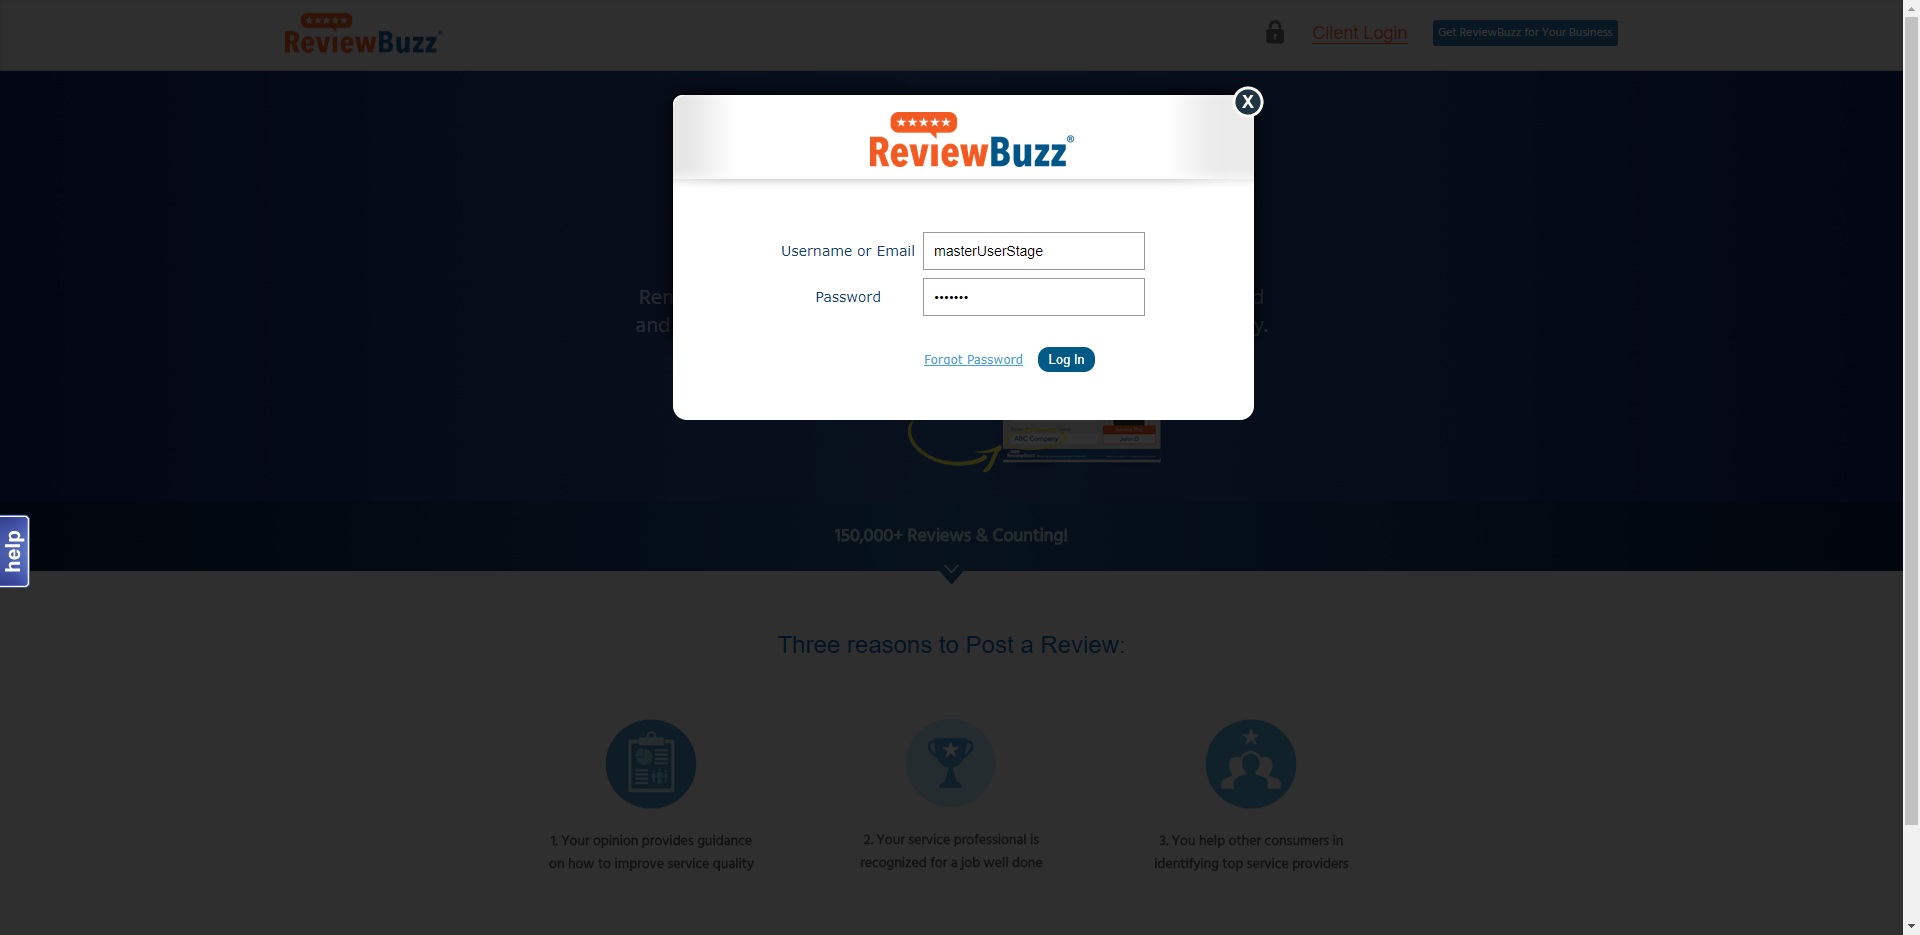
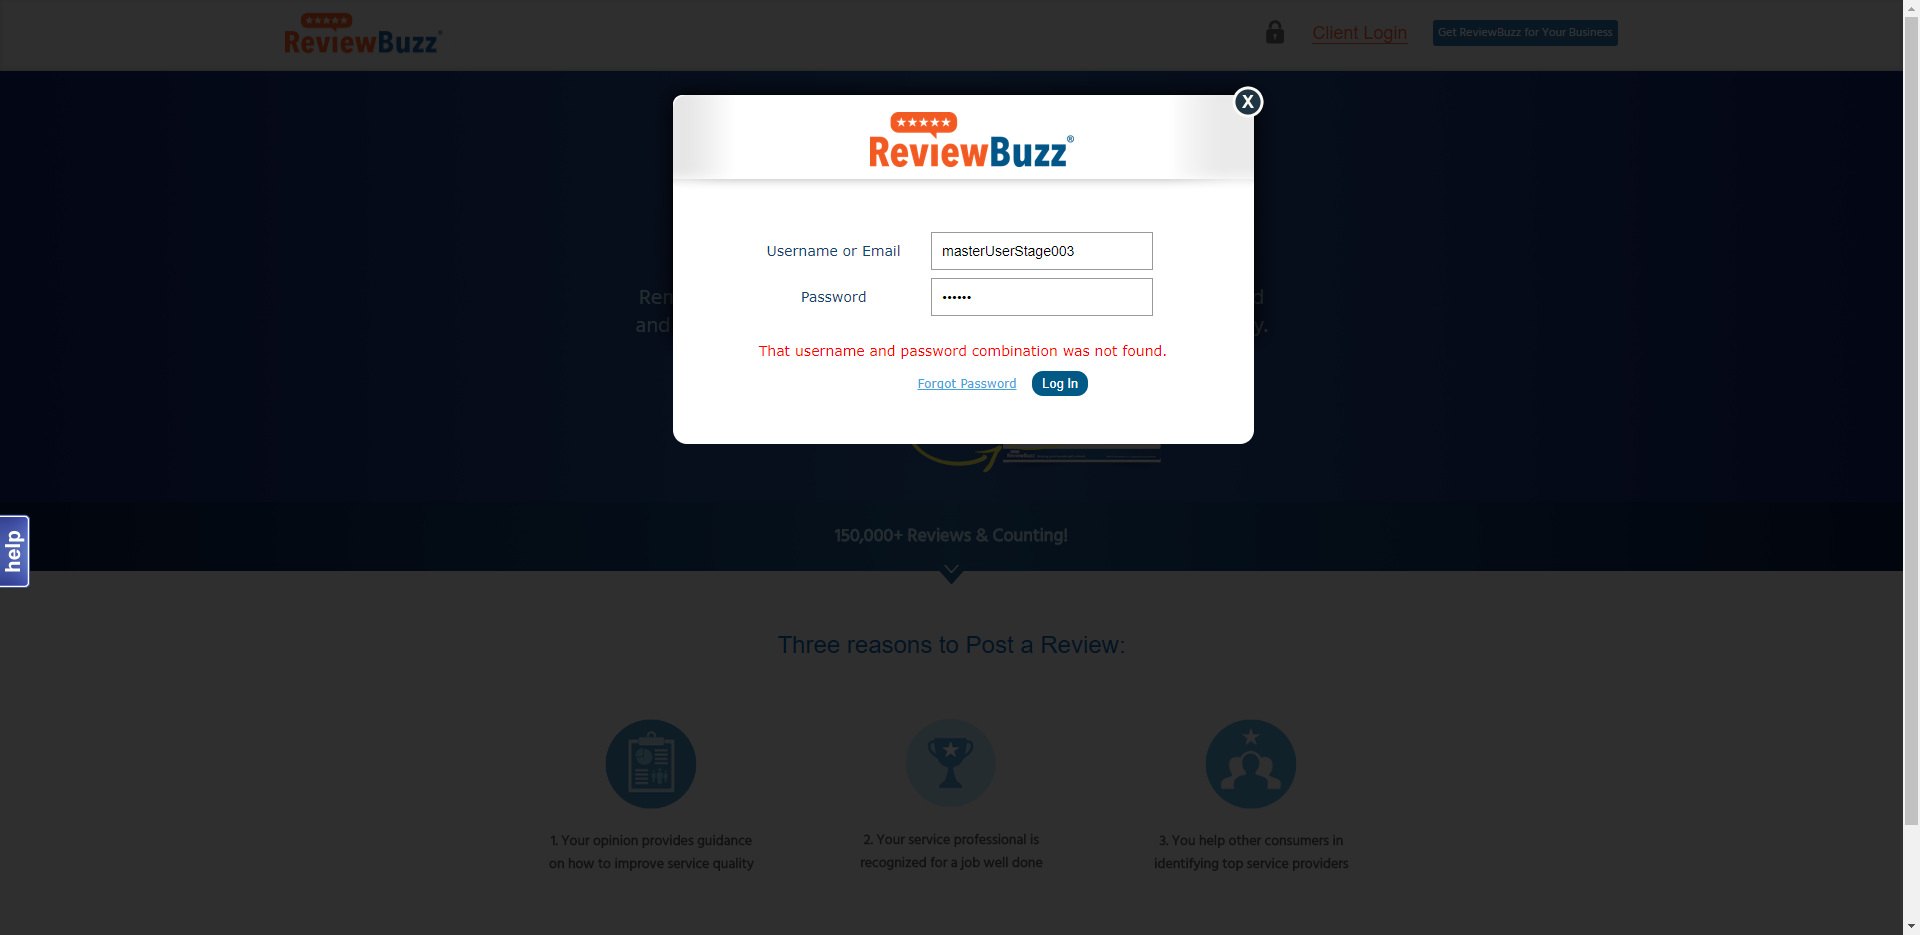
-

Changed region(s): [[0.3438, 0.3722, 0.6562, 0.4963], [0.4062, 0.2481, 0.5625, 0.2791], [0.4062, 0.3102, 0.4688, 0.3412]]

diff --git a/report/Smoke_Test_Report.html b/report/Smoke_Test_Report.html
@@ -1,0 +1,309 @@
+<!DOCTYPE html>
+<html lang="en">
+<head>
+    <meta charset="utf-8">
+    <meta http-equiv="X-UA-Compatible" content="IE=edge">
+    <meta name="viewport" content="width=device-width, initial-scale=1">
+    <title>Behat Tests</title>
+
+    <!-- Bootstrap -->
+    <!-- Latest compiled and minified CSS -->
+    <link rel="stylesheet" href="https://maxcdn.bootstrapcdn.com/bootstrap/3.3.1/css/bootstrap.min.css">
+
+    <!-- Optional theme -->
+    <link rel="stylesheet" href="https://maxcdn.bootstrapcdn.com/bootstrap/3.3.1/css/bootstrap-theme.min.css">
+
+    <!-- Optional theme -->
+    <link rel="stylesheet" href="assets/Twig/css/style.css">
+
+    <!-- HTML5 shim and Respond.js for IE8 support of HTML5 elements and media queries -->
+    <!-- WARNING: Respond.js doesn't work if you view the page via file:// -->
+    <!--[if lt IE 9]>
+    <script src="https://oss.maxcdn.com/html5shiv/3.7.2/html5shiv.min.js"></script>
+    <script src="https://oss.maxcdn.com/respond/1.4.2/respond.min.js"></script>
+    <![endif]-->
+
+    <script src="assets/Twig/js/Chart.min.js"></script>
+</head>
+<body role="document" style="margin-top: 70px;">
+
+<!-- Fixed navbar -->
+<nav class="navbar navbar-inverse navbar-fixed-top">
+    <div class="container">
+        <div class="navbar-header">
+            <button type="button" class="navbar-toggle collapsed" data-toggle="collapse" data-target="#navbar"
+                    aria-expanded="false" aria-controls="navbar">
+                <span class="sr-only">Toggle navigation</span>
+                <span class="icon-bar"></span>
+                <span class="icon-bar"></span>
+                <span class="icon-bar"></span>
+            </button>
+            <a class="navbar-brand" href="#">Behat report</a>
+        </div>
+        <div id="navbar" class="navbar-collapse collapse">
+            <ul class="nav navbar-nav">
+                            </ul>
+        </div>
+        <!--/.nav-collapse -->
+    </div>
+</nav>
+
+<div class="container theme-showcase" role="main">
+    <div class="row charts">
+        <div class="col-sm-4">
+            <div class="canvas-holder">
+                <canvas id="chart-features" width="300" height="300"/>
+            </div>
+            1 features failed of 1
+            features
+        </div>
+        <div class="col-sm-4">
+            <div class="canvas-holder">
+                <canvas id="chart-scenarios" width="300" height="300"/>
+            </div>
+            1 scenarios failed of 1
+            scenarios
+        </div>
+        <div class="col-sm-4">
+            <div class="canvas-holder">
+                <canvas id="chart-steps" width="300" height="300"/>
+            </div>
+            1 steps failed of 5
+        </div>
+    </div>
+    <hr>
+    <div class="filters">
+        <a class="btn btn-default" id="feature-all-filter" role="button">All</a>
+        <a class="btn btn-success" id="feature-passed-filter" role="button">Passed</a>
+        <a class="btn btn-danger" id="feature-failed-filter" role="button">Failed</a>
+    </div>
+    <hr>
+    <div id="feature-overview">
+                    <div class="row">
+                <div class="col-sm-12">
+                    <h2>Suite: default</h2>
+
+                    <div class="row">
+                                                    <div class="col-sm-4 feature" data-id="feature-1">
+                                <div class="card failed">
+                                    <div class="header">
+                                        <h2>Feature: Login Functionality</h2>
+                                    </div>
+                                    <div class="info">
+                                        <p>As an admin user/Master User<br />
+I will be able to login to my account</p>
+                                    </div>
+                                    <div class="footer">
+                                        <div class="tags">
+                                                                                    </div>
+                                                                                    <div class="progress">
+
+                                                <div class="progress-bar progress-bar-green" role="progressbar"
+                                                     style="width: 0%">
+                                                    <span class="sr-only">40% Complete (success)</span>
+                                                </div>
+                                                <div class="progress-bar progress-bar-red" role="progressbar"
+                                                     style="width: 100%">
+                                                    <span class="sr-only">40% Complete (success)</span>
+                                                </div>
+                                            </div>
+                                                                            </div>
+                                </div>
+                            </div>
+                                            </div>
+                </div>
+            </div>
+            <hr>
+            </div>
+    <div id="scenario-overview" class="row">
+                                    <div class="feature" data-id="feature-1">
+                    <div class="col-sm-4">
+                        <div class="card failed">
+                            <div class="header">
+                                <h2>Feature: Login Functionality</h2>
+                            </div>
+                            <div class="info">
+                                <p>As an admin user/Master User<br />
+I will be able to login to my account</p>
+                            </div>
+                            <div class="footer">
+                                <div class="tags">
+                                                                    </div>
+                                                                    <div class="progress">
+
+                                        <div class="progress-bar progress-bar-green" role="progressbar"
+                                             style="width: 0%">
+                                            <span class="sr-only">40% Complete (success)</span>
+                                        </div>
+                                        <div class="progress-bar progress-bar-red" role="progressbar"
+                                             style="width: 100%">
+                                            <span class="sr-only">40% Complete (success)</span>
+                                        </div>
+                                    </div>
+                                                            </div>
+                        </div>
+                    </div>
+                    <div class="col-sm-8 details panel-group" role="tablist" aria-multiselectable="true">
+                                                    <div class="panel panel-default failed">
+                                <div class="panel-heading" role="tab">
+                                    <h4 class="panel-title">
+                                        <a data-toggle="collapse" data-parent="#accordion"
+                                           href="#scenario-1-1"
+                                           aria-expanded="true"
+                                           aria-controls="scenario-1-1">
+                                            Scenario: Login as Master User
+                                        </a>
+
+                                        <div class="tags pull-right">
+                                                                                            <span class="badge">masterUser</span>
+                                                                                                                                </div>
+                                    </h4>
+                                </div>
+                                <div id="scenario-1-1" class="panel-collapse collapse in"
+                                     role="tabpanel"
+                                     aria-labelledby="headingOne">
+                                    <ul class="list-group">
+                                                                                    <li class="list-group-item alert alert-success">
+                                                <b>Given</b> there are following users:
+                                                                                                                                                            <p style="padding-left:0.5em; overflow-x:scroll; white-space:nowrap; font-family:monospace">| username           | password |<br />
+| lito.dagodog       | Y493SrNV |<br />
+| masterUserStage003 | test12   |</p>
+                                                                                                                                                                                                                                                                                                </li>
+                                                                                                                                                                                                                        <li class="list-group-item alert alert-success">
+                                                <b>And</b> I am on &quot;/&quot;
+                                                                                                                                                                                                                                                                                                                                                </li>
+                                                                                                                                                                                                                        <li class="list-group-item alert alert-success">
+                                                <b>And</b> I click on login &quot;Client Login&quot;
+                                                                                                                                                                                                                                                                                                                                                </li>
+                                                                                                                                                                                                                        <li class="list-group-item alert alert-success">
+                                                <b>When</b> I am authenticated as &quot;masterUserStage003&quot;
+                                                                                                                                                                                                                                                                                                                                                </li>
+                                                                                                                                                                                                                        <li class="list-group-item alert alert-danger">
+                                                <b>Then</b> I should not see &quot;That username and password combination was not found.&quot;
+                                                                                                                                                                                                                                                        <br>
+                                                    <p style="padding-left:2em ; color:gray">(The text &quot;That username and password combination was not found.&quot; appears in the text of this page, but it should not.)</p>
+                                                                                                                                                                                            </li>
+                                                                                                                                                                                                                        <li class="list-group-item alert alert-info">
+                                                <b>And</b> I accept the term of use
+                                                                                                                                                                                                                                                                                                                                                </li>
+                                                                                                                                                                                                                        <li class="list-group-item alert alert-info">
+                                                <b>Then</b> I should be on &quot;/master_account&quot;
+                                                                                                                                                                                                                                                                                                                                                </li>
+                                                                                                                                                                                                                        <li class="list-group-item alert alert-info">
+                                                <b>Then</b> I should see text matching &quot;Hi,masterUserStage&quot;
+                                                                                                                                                                                                                                                                                                                                                </li>
+                                                                                                                                                                                                                </ul>
+                                </div>
+                            </div>
+                                            </div>
+                </div>
+                        </div>
+</div>
+<!-- /container -->
+<!-- jQuery (necessary for Bootstrap's JavaScript plugins) -->
+<script src="https://ajax.googleapis.com/ajax/libs/jquery/1.11.1/jquery.min.js"></script>
+<!-- Include all compiled plugins (below), or include individual files as needed -->
+<script src="https://maxcdn.bootstrapcdn.com/bootstrap/3.3.1/js/bootstrap.min.js"></script>
+
+<script type="text/javascript">
+    var featureData = [
+        {
+            value: 1,
+            color: "#F7464A",
+            highlight: "#FF5A5E",
+            label: "Failed"
+        },
+        {
+            value: 0,
+            color: "#00a65a",
+            highlight: "#5AD3D1",
+            label: "Passed"
+        },
+    ];
+
+    var scenarioData = [
+        {
+            value: 1,
+            color: "#F7464A",
+            highlight: "#FF5A5E",
+            label: "Failed"
+        },
+        {
+            value: 0,
+            color: "#00a65a",
+            highlight: "#5AD3D1",
+            label: "Passed"
+        },
+    ];
+
+    var stepData = [
+        {
+            value: 1,
+            color: "#F7464A",
+            highlight: "#FF5A5E",
+            label: "Failed"
+        },
+        {
+            value: 4,
+            color: "#00a65a",
+            highlight: "#5AD3D1",
+            label: "Passed"
+        },
+    ];
+
+    window.onload = function () {
+        var featureChart = document.getElementById("chart-features").getContext("2d");
+        var scenarioChart = document.getElementById("chart-scenarios").getContext("2d");
+        var stepChart = document.getElementById("chart-steps").getContext("2d");
+        new Chart(featureChart).Doughnut(featureData);
+        new Chart(scenarioChart).Doughnut(scenarioData);
+        new Chart(stepChart).Doughnut(stepData);
+    };
+</script>
+<script type="text/javascript">
+    function showOverview() {
+        $("#feature-overview").show();
+        $("#scenario-overview").hide();
+    }
+    function showDetails() {
+        $("#feature-overview").hide();
+        $("#scenario-overview").show();
+    }
+    function showFeatureDetail(featureId) {
+        $("#scenario-overview .feature").hide();
+        $("#scenario-overview .feature[data-id='" + featureId + "']").show();
+    }
+    $(function () {
+        $('.collapse').collapse();
+
+        $('.filters').click()
+        {
+            showOverview();
+        }
+
+        $('.filters #feature-failed-filter').click(function () {
+            showOverview();
+            $('.feature').hide();
+            $('.card.failed').parent().show();
+        });
+        $('.filters #feature-passed-filter').click(function () {
+            showOverview();
+            $('.feature').hide();
+            $('.card.passed').parent().show();
+        });
+        $('.filters #feature-all-filter').click(function () {
+            showOverview();
+            $('.feature').show();
+        });
+    });
+
+    $(function () {
+        $(".feature").click(function () {
+            var featureId = $(this).data("id");
+            showDetails();
+            showFeatureDetail(featureId);
+        });
+    });
+</script>
+</body>
+</html>

diff --git a/features/bootstrap/FeatureContext.php b/features/bootstrap/FeatureContext.php
@@ -203,23 +203,23 @@ class FeatureContext extends MinkContext implements Context, SnippetAcceptingCon
         }	
 
     /**
-     * @When I see :arg1 button
-     */
-    public function iSeeButton($arg1)
-    {
-        $addPage = $this->getSession()->getPage();
-		$addNameClient = $addPage->find("css", '#'.$arg1);
-		if ($addNameClient) {
-			$addNameClient->click();
-		} else {
-		}
-    }
-
-    /**
      * @When I wait for :arg1 seconds
      */
     public function iWaitForSeconds($arg1)
     {
         sleep($arg1);
+    }
+
+    /**
+     * @Then I accept the term of use
+     */
+    public function iAcceptTheTermOfUse()
+    {
+        $addPage = $this->getSession()->getPage();
+		$addNameClient = $addPage->find("css", '#agree_button');
+		if ($addNameClient) {
+			$addNameClient->click();
+		} else {
+		}
     }
 }
